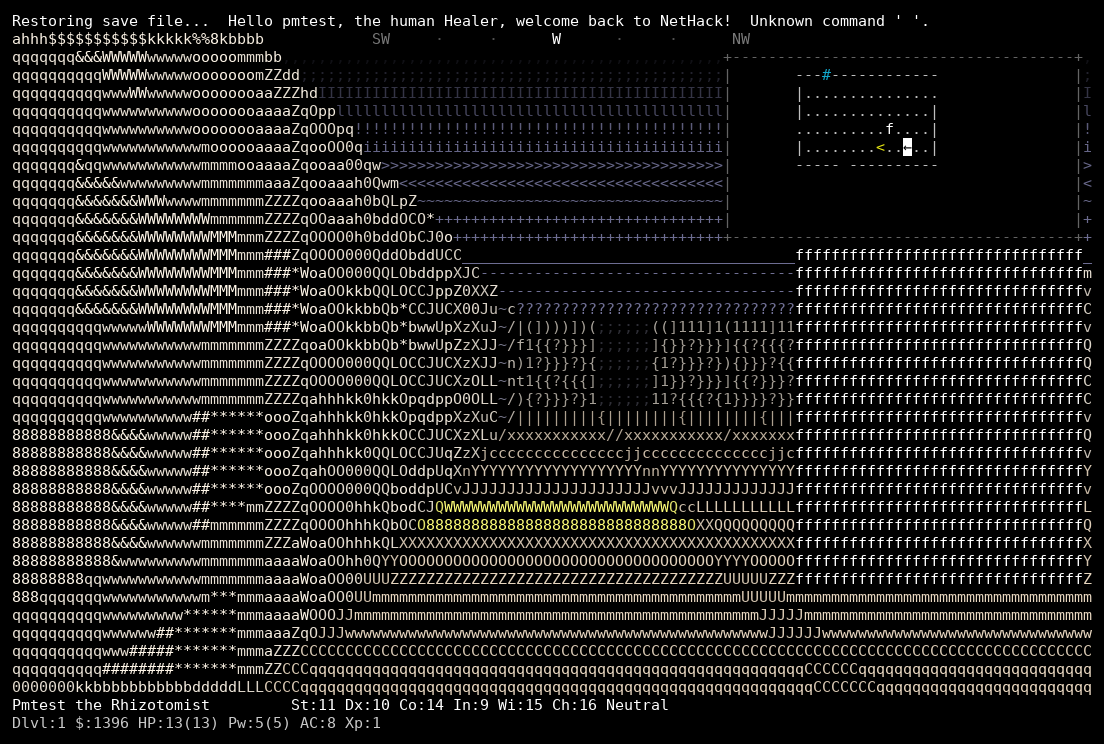
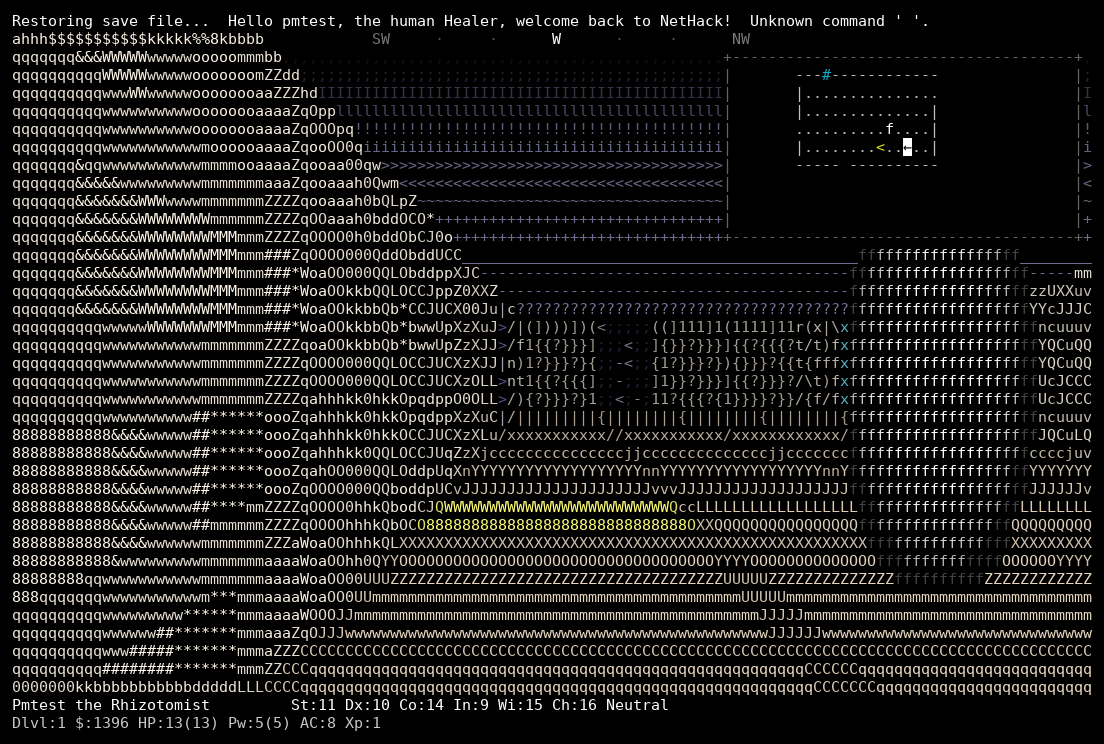
README: refreshed fps screenshot, new ortho screenshot, status
Claude-Session: https://claude.ai/code/session_01PrmTsgB6uT3aWgRhtpPeD7

Changed region(s): [[0.7083, 0.3401, 0.9855, 0.8038]]

diff --git a/README.md b/README.md
@@ -11,6 +11,13 @@ stairs, the kitten, the compass ribbon and the minimap](docs/screenshot-fps.png)
 Top-right: minimap with the hero as a facing arrow. Bottom: NetHack's
 status lines.*
 
+![Isometric view of the same room: raised brick walls with lit tops and
+shaded faces, the hero and the kitten as figures, a faint lattice over
+unexplored space](docs/screenshot-ortho.png)
+
+*The same room in the ortho view (`F3`). Tiles scale with the terminal so
+the hero stays about a seventh of the screen height.*
+
 ## What it is
 
 - **Unmodified NetHack.** The game is the `nethack/` git submodule, built
@@ -26,10 +33,11 @@ status lines.*
   and as a minimap. Four looks ported from AsciiCity's shaders: cyber,
   gloom, solarized, amber.
 
-Status (September 2026): playable end to end in all three modes. In
-progress: shaped monster sprites and "unknown space as darkness" in the
-first-person view, opaque menu panels, and a zoomable 3/4 ortho view. The
-browser build that reuses AsciiCity's three.js styles is not started.
+Status (September 2026): playable end to end in all three modes, with
+textured walls, shaped sprites, unknown space rendered as darkness, a
+compass, opaque menu panels and a zoomable 3/4 ortho view. In progress:
+cutaway walls so the hero is never hidden in the ortho view. The browser
+build that reuses AsciiCity's three.js styles is not started.
 
 ## Build
 

diff --git a/.tigerteam/STATE.md b/.tigerteam/STATE.md
@@ -63,6 +63,10 @@ Design contract: `docs/architecture.md` (PM-owned). PM-owned code:
   before the first ticket.
 
 ## Board snapshot
+- 2026-09-04 01:00 — T-0020 reinstated + merged (user), T-0021 (ortho v2)
+  accepted; 21 done. README screenshots refreshed (fps + new ortho) and
+  pushed. Queued: T-0022 (ortho cutaway). Board otherwise empty; browser
+  wave still awaits the user's WASM-vs-thin-client decision.
 - 2026-09-04 00:20 — T-0019 (opaque panels, muse, fast and clean) and T-0017
   (veil for the unknown + shaped sprites) accepted; 19 done. T-0021 (ortho
   v2) claimable. TODO after T-0021: refresh docs/screenshot-fps.png (kitten
